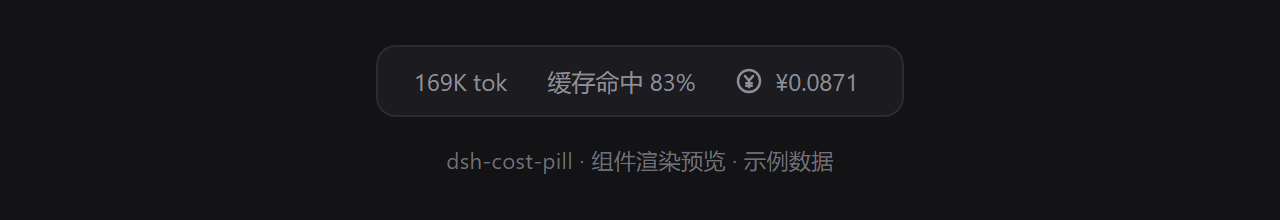
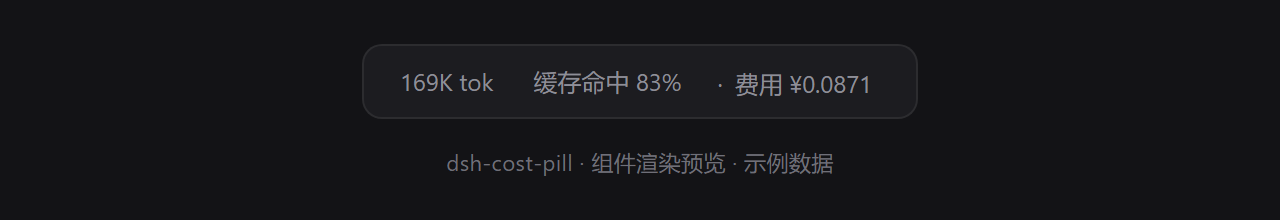
docs: use composer screenshots; render cost inline with host pills

diff --git a/lib/client.js b/lib/client.js
@@ -150,7 +150,7 @@ window.__ModuleLoader__.load({
 		//#region styles
 		// Same declarations as the host's own composer pills, under a private prefix,
 		// so the pill inherits the active theme instead of hard-coding colours.
-		const CSS = ".dcp_anchor{min-width:0;font-size:calc(var(--dsh-content-font-size-secondary,13px) - 1px);line-height:calc(20px + var(--dsh-content-font-delta-secondary,0px));display:inline-flex}.dcp_pill{box-sizing:border-box;border-radius:var(--dsw-radius-sm);max-width:100%;color:var(--dsw-alias-label-tertiary);font:inherit;font-variant-numeric:tabular-nums;line-height:inherit;white-space:nowrap;background:0 0;border:none;align-items:center;gap:6px;padding:1px 8px;display:inline-flex}.dcp_pill svg{flex:none;width:14px;height:14px}.dcp_label{text-overflow:ellipsis;min-width:0;overflow:hidden}";
+		const CSS = ".dcp_anchor{min-width:0;font-size:calc(var(--dsh-content-font-size-secondary,13px) - 1px);line-height:calc(20px + var(--dsh-content-font-delta-secondary,0px));display:inline-flex}.dcp_pill{box-sizing:border-box;border-radius:var(--dsw-radius-sm);max-width:100%;color:var(--dsw-alias-label-tertiary);font:inherit;font-variant-numeric:tabular-nums;line-height:inherit;white-space:nowrap;background:0 0;border:none;align-items:center;gap:0;padding:1px 8px 1px 0;display:inline-flex}.dcp_sep{color:var(--dsw-alias-separator-primary);margin:0 6px}.dcp_label{text-overflow:ellipsis;min-width:0;overflow:hidden}";
 
 		/** Install the pill stylesheet once per page. */
 		function installStyles() {
@@ -163,25 +163,11 @@ window.__ModuleLoader__.load({
 		}
 		//#endregion
 
-		/** A small yen-in-circle mark; drawn inline so no icon package is required. */
-		function CostIcon() {
-			return react.createElement("svg", {
-				viewBox: "0 0 16 16",
-				"aria-hidden": "true",
-				fill: "none",
-				stroke: "currentColor",
-				strokeWidth: 1.4,
-				strokeLinecap: "round",
-				strokeLinejoin: "round"
-			},
-				react.createElement("circle", { cx: 8, cy: 8, r: 6.3 }),
-				react.createElement("path", { d: "M5.7 5.1 8 7.9l2.3-2.8M8 7.9v3.6M6.4 9.2h3.2M6.4 10.7h3.2" })
-			);
-		}
-
 		/**
-		 * The pill itself. Read-only by design: the breakdown lives in the tooltip,
-		 * so the plugin needs no dialog, no focus trap, and no host styling hooks.
+		 * The pill itself. It continues the host's own pill row rather than
+		 * introducing a second visual element: the leading separator and the muted
+		 * colour are the ones the neighbouring pills use. Read-only by design — the
+		 * breakdown lives in the tooltip, so no dialog or focus handling is needed.
 		 * @param props - the dock slot props; `useProjection` is the projection seat.
 		 * @returns the pill, or null when there is no usage to price.
 		 */
@@ -215,8 +201,11 @@ window.__ModuleLoader__.load({
 					role: "img",
 					"aria-label": `${L.cost} ${text}, ${rateLabel}`
 				},
-					react.createElement(CostIcon, null),
-					react.createElement("span", { className: "dcp_label" }, text)
+					react.createElement("span", {
+						className: "dcp_sep",
+						"aria-hidden": "true"
+					}, "·"),
+					react.createElement("span", { className: "dcp_label" }, `${L.cost} ${text}`)
 				)
 			);
 		}

diff --git a/README.zh.md b/README.zh.md
@@ -2,13 +2,17 @@
 
 在 DSH 输入框旁的胶囊区多显示一个只读胶囊：本次会话到目前为止花了多少钱（人民币）。
 
-![输入框胶囊区的费用胶囊](preview/composer-dock.png)
+![输入框胶囊区的费用胶囊](preview/real-dock.png)
+
+*桌面端实际效果：费用接在 Token 用量与缓存命中的后面，同一行同一样式。*
+
+![费用胶囊单独渲染](preview/composer-dock.png)
 
 *用本仓库自己的 `lib/client.js` 渲染，token 数据为示例值。*
 
 ## 显示什么
 
-`¥0.0871` —— 会话已计费 token 的估算费用。鼠标悬停可看到构成这个数字的明细：
+`· 费用 ¥0.0871` —— 会话已计费 token 的估算费用。鼠标悬停可看到构成这个数字的明细：
 
 ```
 费用 ¥0.0871 · 高峰 · deepseek-flash

diff --git a/README.md b/README.md
@@ -3,13 +3,18 @@
 Adds one read-only pill to the DSH composer dock, next to the host's own token
 usage pill, showing what the session has cost so far in yuan.
 
-![The cost pill in the composer dock](preview/composer-dock.png)
+![The cost pill in the composer dock](preview/real-dock.png)
+
+*In the desktop app: the cost continues the composer pill row, after the token
+usage and cache-hit readings.*
+
+![The pill on its own](preview/composer-dock.png)
 
 *Rendered from this repository's own `lib/client.js` with sample usage data.*
 
 ## What it shows
 
-`¥0.0871` — the estimated cost of every token this session has billed so far.
+`· 费用 ¥0.0871` — the estimated cost of every token this session has billed so far.
 Hovering the pill reveals the breakdown the number is made of:
 
 ```
